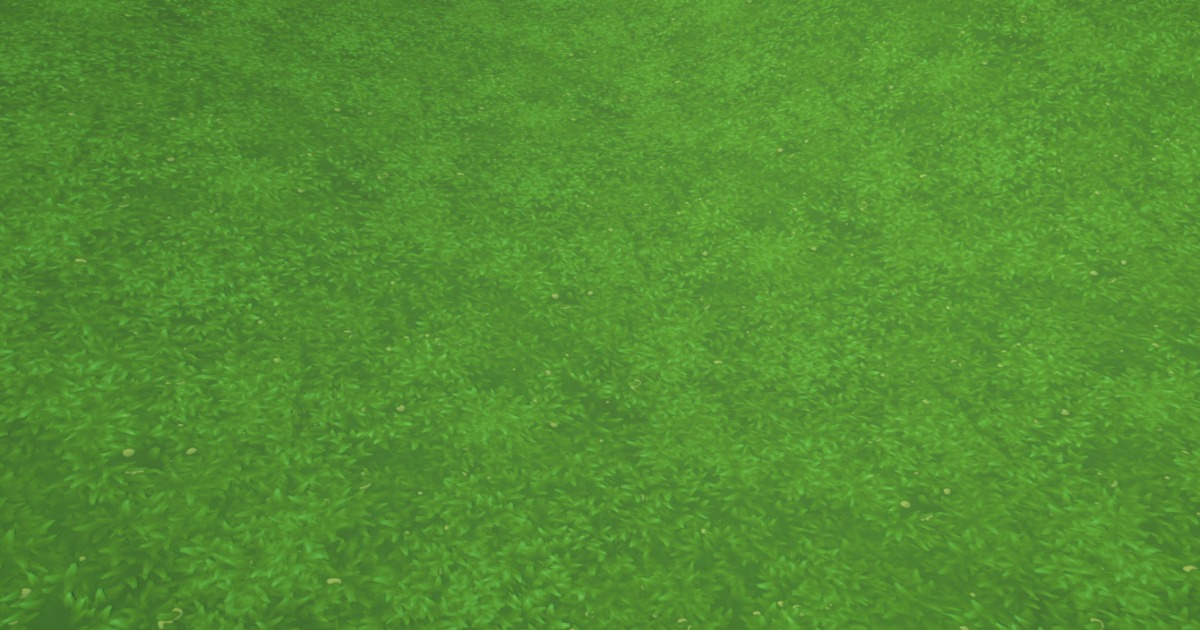
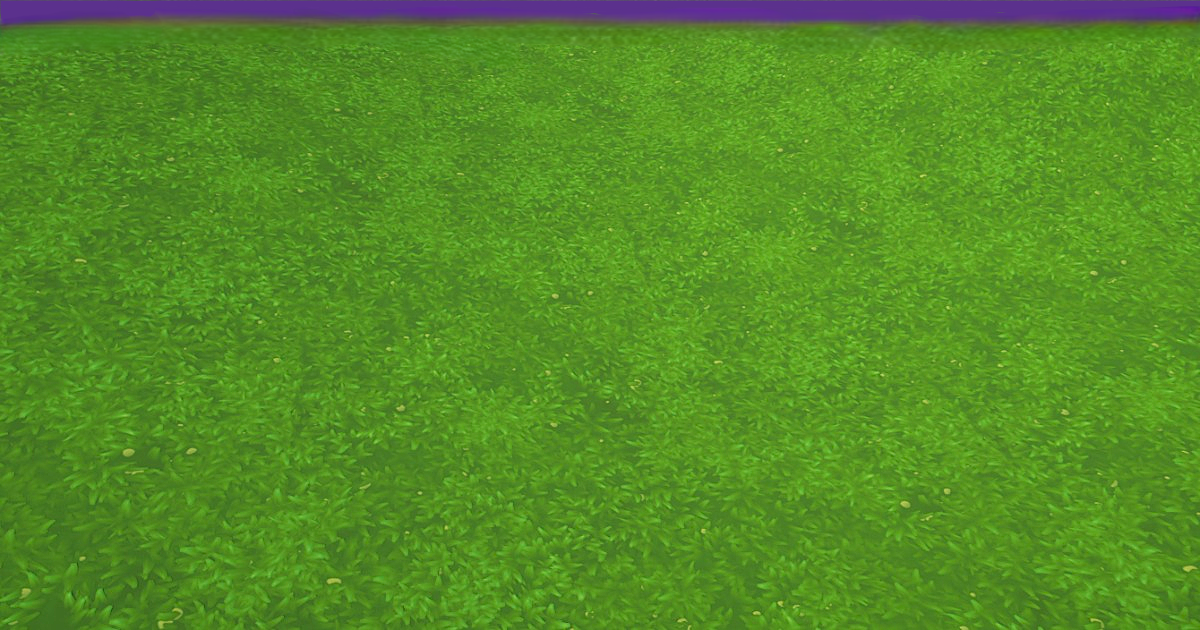
feat: new textures

Changed region(s): [[0.0, 0.0, 1.0, 0.1206]]

diff --git a/game.js b/game.js
@@ -185,17 +185,25 @@ grassImg.onload = () => {
 function drawGround() {
   const floorY = canvas.height - 50;
 
-  if (grassPattern) {
+  const targetHeight = 300;
+  const stretchAmount = 100;
+
+  if (grassImg.complete && grassImg.naturalWidth) {
+    const tileWidth = grassImg.naturalWidth + stretchAmount;
+
     ctx.save();
     ctx.translate(0, floorY);
-    ctx.fillStyle = grassPattern;
-    ctx.fillRect(0, 0, canvas.width, 100);
+
+    for (let x = 0; x < canvas.width; x += tileWidth) {
+      ctx.drawImage(grassImg, x, 0, tileWidth, targetHeight);
+    }
+
     ctx.restore();
   } else {
     ctx.save();
     ctx.translate(0, floorY);
     ctx.fillStyle = "#1d3b2a";
-    ctx.fillRect(0, 0, canvas.width, 100);
+    ctx.fillRect(0, 0, canvas.width, targetHeight);
     ctx.restore();
   }
 }
@@ -284,7 +292,7 @@ function drawUI() {
   ctx.fillStyle = "#8fd4ff";
   ctx.shadowColor = "#2be0ff";
   ctx.shadowBlur = 12;
-  ctx.fillText(`Ship Components: ${playerStats.shipParts}`, partsX, partsY);
+  ctx.fillText(`Ship Parts: ${playerStats.shipParts}`, partsX, partsY);
 
   ctx.shadowBlur = 0;
 }
